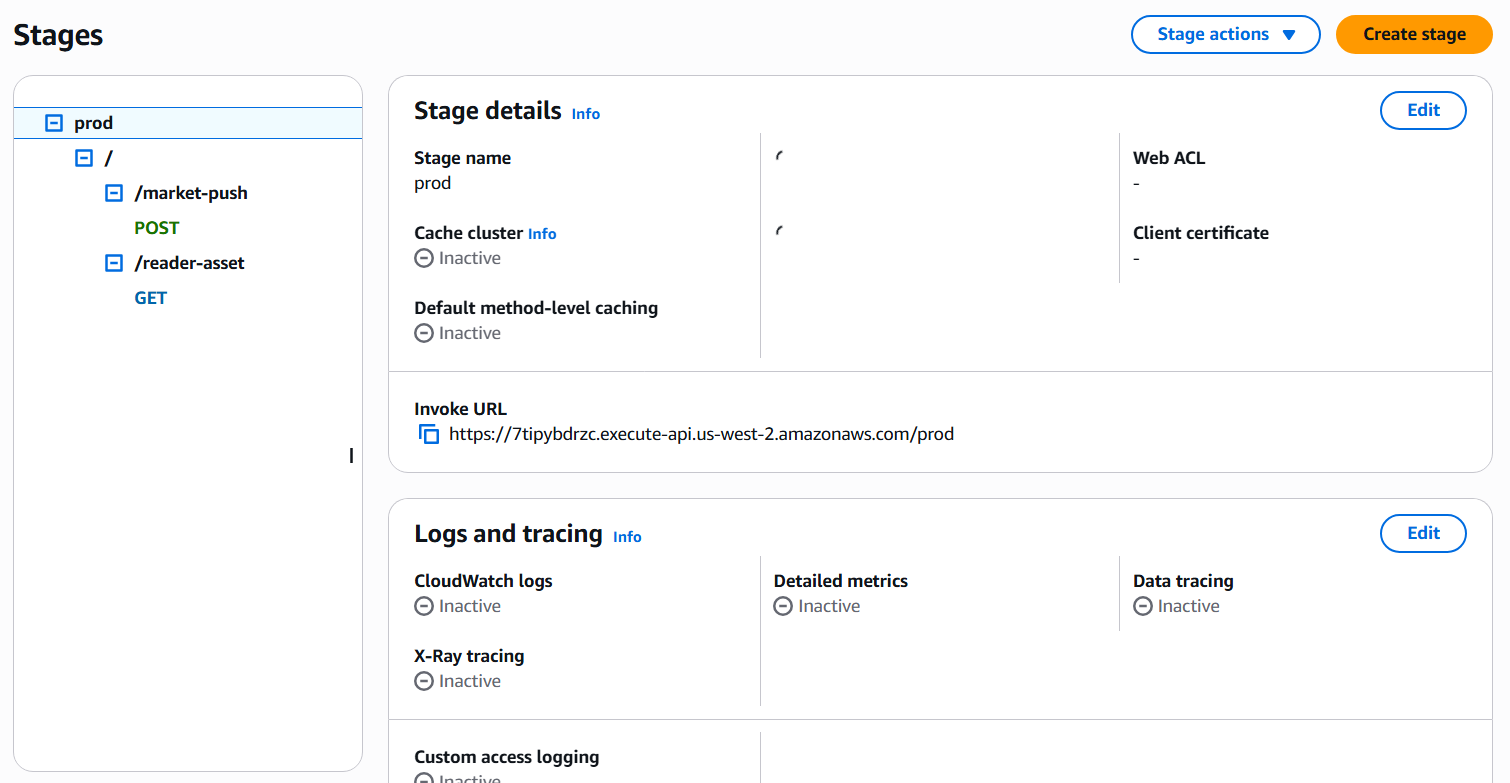
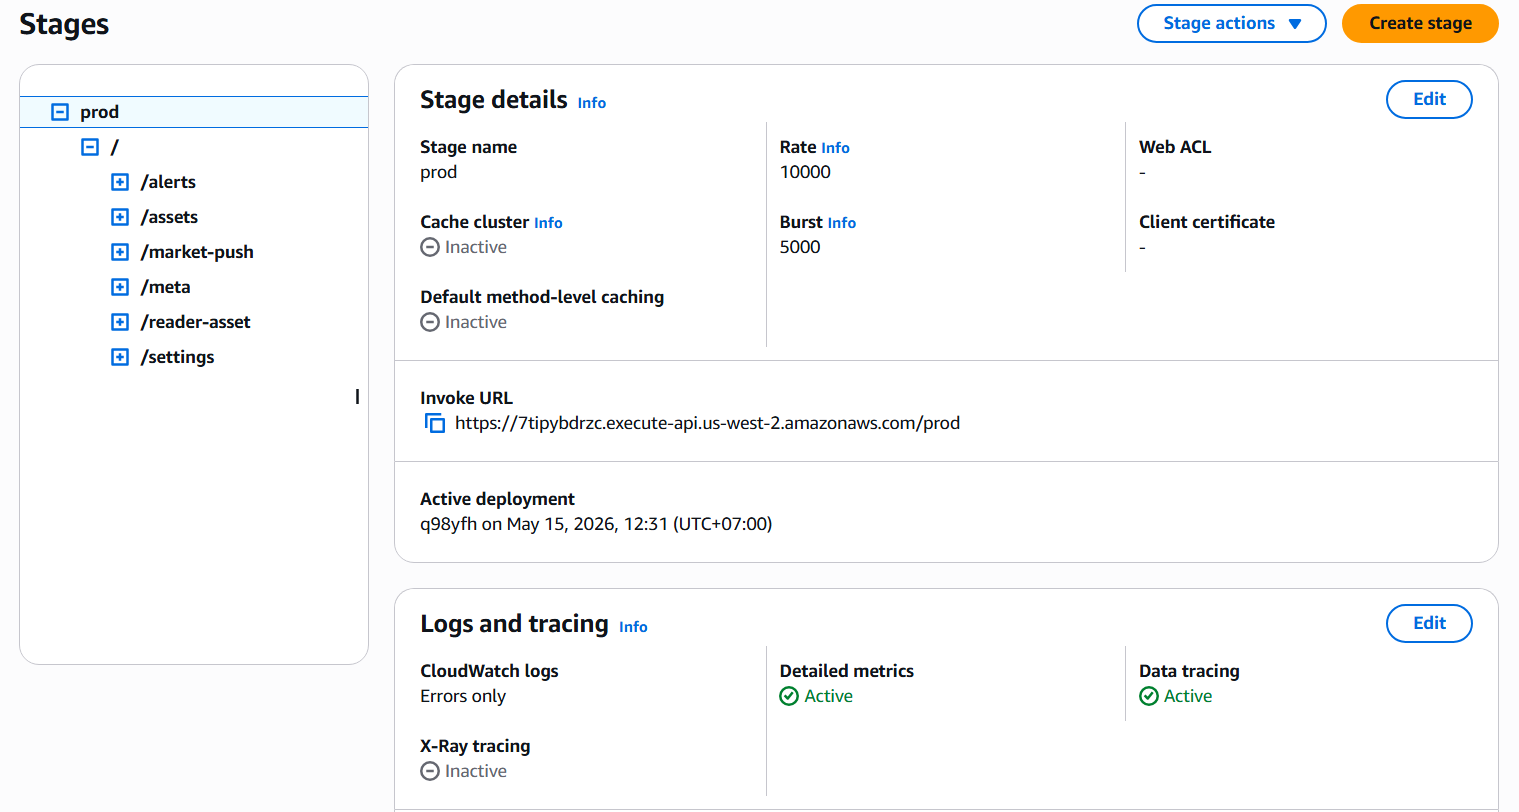
add proof for quan

diff --git a/mini_project/quan/NOTES.md b/mini_project/quan/NOTES.md
@@ -3,4 +3,7 @@
 ## Vì sao chọn A
 
 - Triển khai nhanh, hạn chế bug. Tuy nhiên, có thêm 1 npm dependency.
-- Cold start (Init Duration): 280.55 ms
+- Cold start time: 269.44 ms
+
+## Proof
+![Proof](./proof.png)
